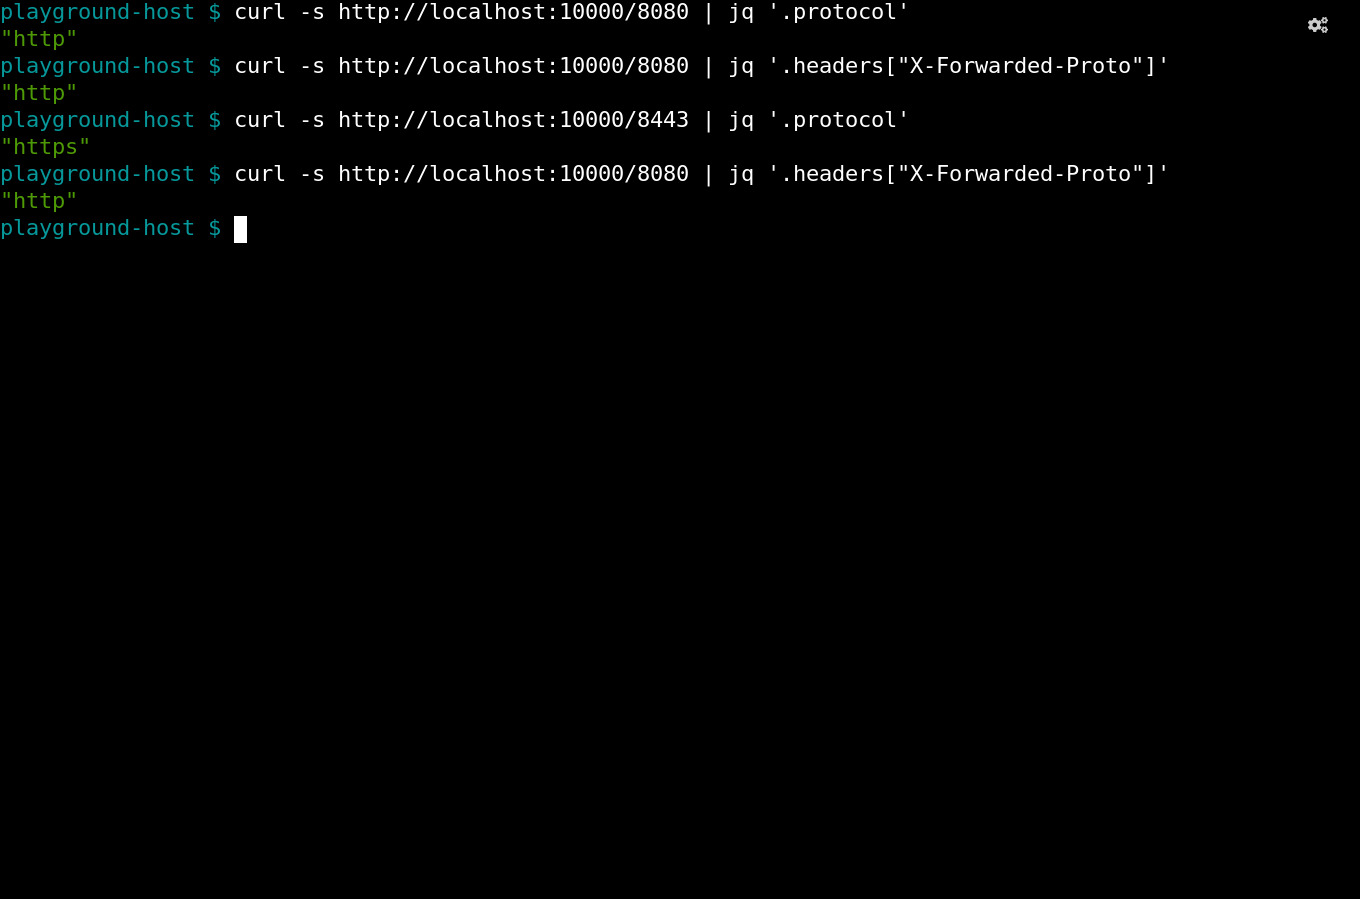
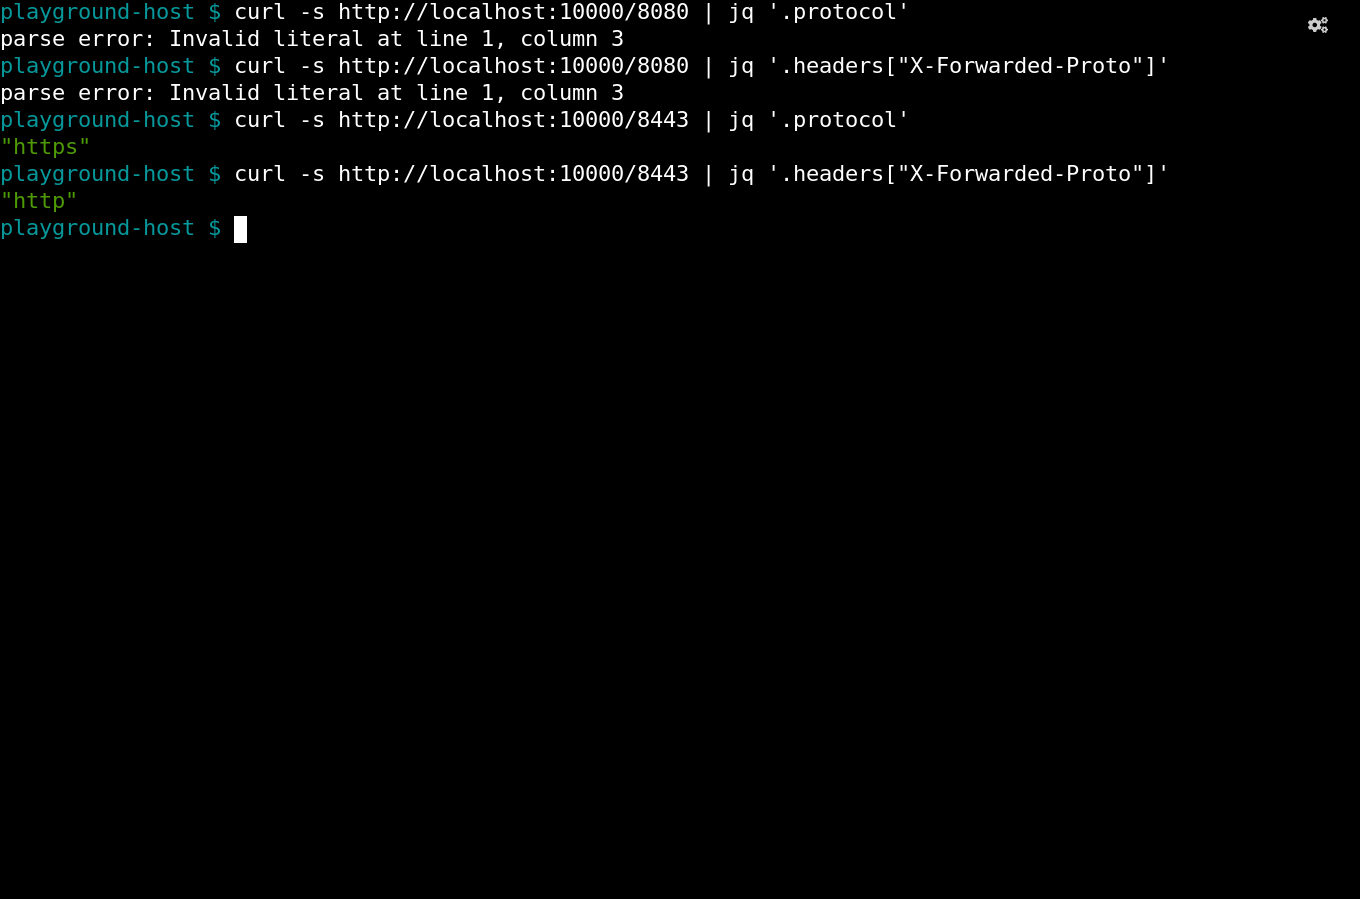
integration/

diff --git a/integration/tests/journeys/test_simple_front_proxy.py b/integration/tests/journeys/test_simple_front_proxy.py
@@ -12,20 +12,18 @@ async def test_journey_simple_front_proxy(playground):
     await asyncio.sleep(5)
     await playground.move('proxy:proxy0', 61, 200)
 
-    # create the network
-    await playground.network_create('net0')
-    await asyncio.sleep(5)
-    await playground.move('network:net0', 300, 200)
-    await playground.connect('net0', 'proxy:proxy0')
-    await asyncio.sleep(1)
-
     # create the service
     await playground.service_create('http-echo', "http-echo0")
     await asyncio.sleep(5)
     await playground.move('service:http-echo0', 500, 200)
+
+    # create the network
+    await playground.network_create('net0')
+    await asyncio.sleep(5)
+    await playground.move('network:net0', 300, 200)
     await playground.connect('net0', 'service:http-echo0')
     await asyncio.sleep(1)
-    await playground.snap('journey.front_proxy.all')
+    await playground.snap('journey.front_proxy.all', 1)
 
     # switch to console and curl http
     await playground.switch_to('console')
@@ -37,7 +35,7 @@ async def test_journey_simple_front_proxy(playground):
     await playground.console_command(
         "curl -s http://localhost:10000/8443 | jq '.protocol'", 1)
     await playground.console_command(
-        "curl -s http://localhost:10000/8080 | jq '.headers[\"X-Forwarded-Proto\"]'", 1)
+        "curl -s http://localhost:10000/8443 | jq '.headers[\"X-Forwarded-Proto\"]'", 1)
     await playground.snap('journey.front_proxy.console.http')
 
     # curl https
@@ -49,5 +47,5 @@ async def test_journey_simple_front_proxy(playground):
     await playground.console_command(
         "curl -sk https://localhost:10001/8443 | jq '.protocol'", 1)
     await playground.console_command(
-        "curl -sk https://localhost:10001/8080 | jq '.headers[\"X-Forwarded-Proto\"]'", 1)
+        "curl -sk https://localhost:10001/8443 | jq '.headers[\"X-Forwarded-Proto\"]'", 1)
     await playground.snap('journey.front_proxy.console.https')

diff --git a/integration/tests/conftest.py b/integration/tests/conftest.py
@@ -77,6 +77,16 @@ class Playground(object):
         name_input = await self.query(
             'input[id="envoy.playground.name"]')
         assert not await self.enter(name_input, name)
+        await self.snap('journey.front_proxy.network.name', 1)
+
+        proxies_tab = await self.query('.modal-body .nav-tabs a:contains("Proxies")', 1)
+        assert not await proxies_tab.click()
+        _target = 'proxy0'
+        checkbox = await self.query(
+            f'.tab-pane.active form input[name="{_target}"]')
+        assert not await checkbox.click()
+        await self.snap('journey.front_proxy.network.proxies', 1)
+
         submit = await self.query('.modal-footer .btn.btn-primary')
         assert not await submit.click()
 
@@ -90,6 +100,7 @@ class Playground(object):
             '.tab-pane.active form select'
             '#example option[value="Service: HTTP/S echo"]', 5)
         assert not await select.click()
+        await self.snap('journey.front_proxy.proxy', 1)
 
         # add ports
         ports_tab = await self.query(
@@ -134,6 +145,7 @@ class Playground(object):
             f'.tab-pane.active form select#service_type '
             f'[value="{service_type}"]')
         assert not await select.click()
+        await self.snap('journey.front_proxy.service', 1)
         submit = await self.query('.modal-footer .btn.btn-primary')
         assert not await submit.click()
 
